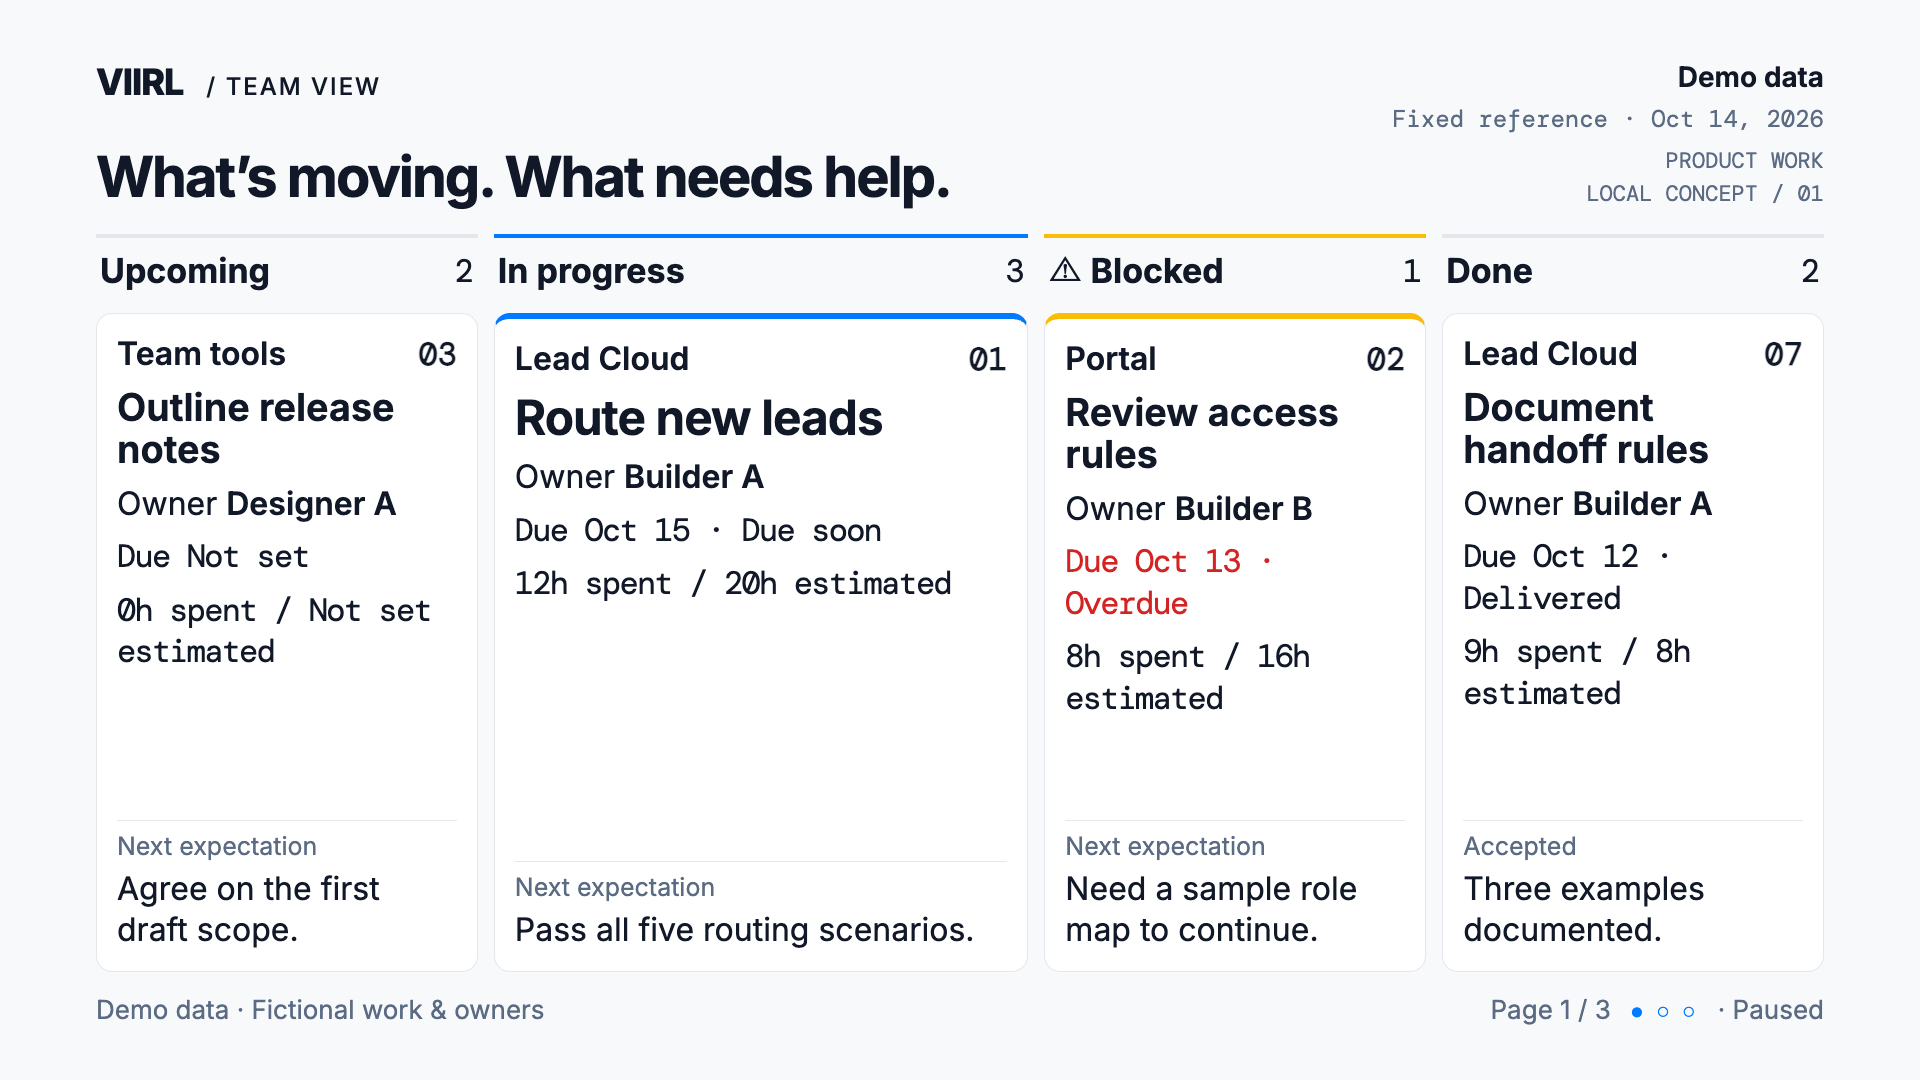
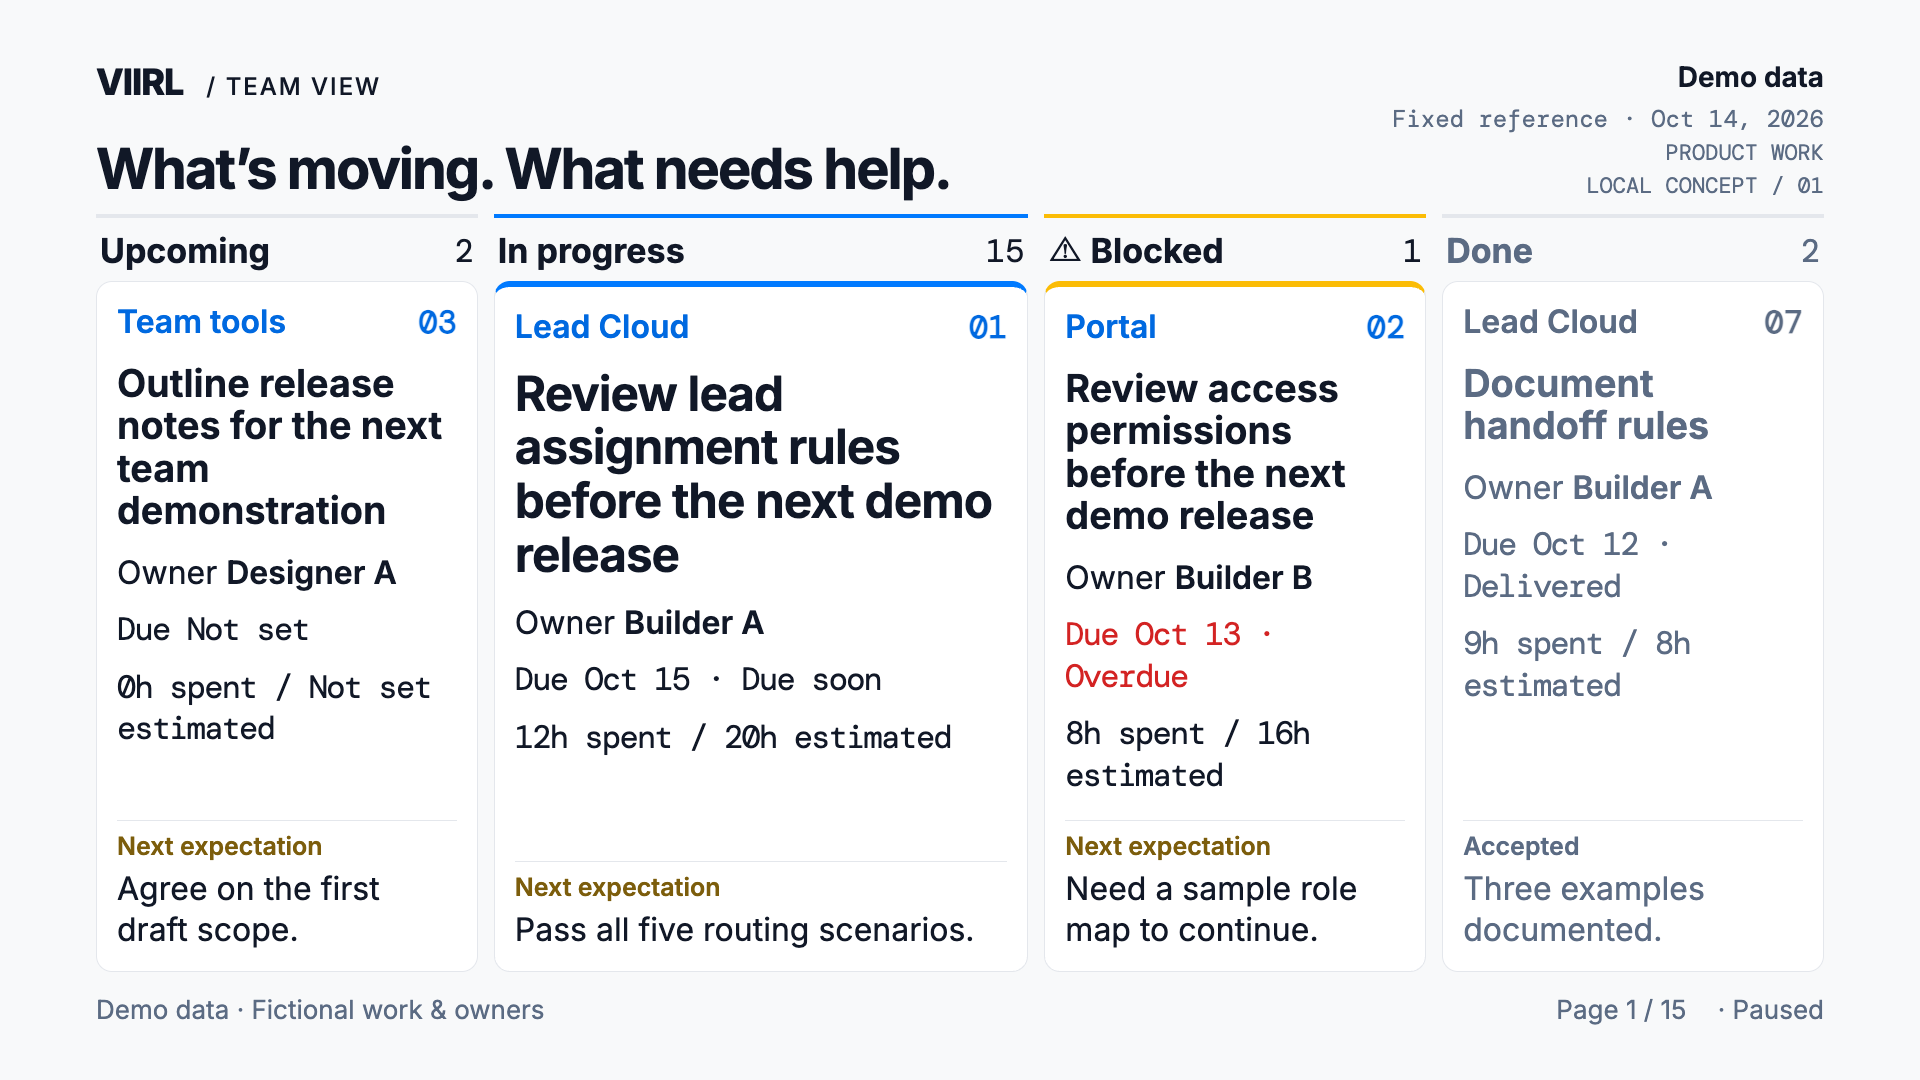
Improve Team View hierarchy and card spacing

diff --git a/style.css b/style.css
@@ -10,9 +10,9 @@
 @media(prefers-reduced-motion:reduce){*{scroll-behavior:auto}}
 
 /* TV composition: reserve the footer and keep every work field readable. */
-.board header{height:64px}.board .heading{margin:20px 0 24px}.board .heading h1{font-size:56px}.board .lane-heading{padding:12px 4px 20px}.board .work-card{gap:14px}.board .work-card .eyebrow{font-size:32px;letter-spacing:0}.board .status{font-size:32px}.board .facts{gap:12px}.board .expectation{padding-top:14px}.board footer{flex-shrink:0;height:54px}.board .work-card{min-height:0}
+.board header{height:64px}.board .heading{margin:12px 0 12px}.board .heading h1{font-size:56px}.board .lane-heading{padding:12px 4px 8px}.board .work-card{gap:14px}.board .work-card .eyebrow{font-size:32px;letter-spacing:0}.board .status{font-size:32px}.board .facts{gap:16px}.board .expectation{padding-top:14px}.board footer{flex-shrink:0;height:54px}.board .work-card{min-height:0}
 
-.board .work-card{padding:20px;gap:12px}.board .expectation{padding-top:10px}.board .expectation>span{margin-bottom:6px}.board .lane.in-progress h3{font-size:48px}.board .work-card h3{line-height:1.12}
+.board .work-card{padding:20px;gap:20px}.board .expectation{padding-top:10px}.board .expectation>span{margin-bottom:6px}.board .lane.in-progress h3{font-size:48px}.board .work-card h3{line-height:1.12}
 .spotlight .heading{margin:16px 0 24px}.spotlight .heading h1{font-size:60px}.spotlight footer{height:54px;flex-shrink:0}.spotlight .support .work-card{padding:16px 20px;gap:8px;min-height:0}.spotlight .support .status{top:12px;right:20px;font-size:30px}.spotlight .support .facts{gap:6px}.spotlight .support .eyebrow{font-size:30px;letter-spacing:0}.spotlight .support .expectation p{line-height:1.2}.spotlight .hero .status{font-size:32px}.spotlight .hero .eyebrow{font-size:32px;letter-spacing:0}
 .timeline .work-card .eyebrow,.timeline .work-card .status{font-size:32px;letter-spacing:0}.week-head>span:not(:first-child){font-size:30px}
 
@@ -77,3 +77,10 @@
 [data-theme="dark"] .timeline .status.in-progress,[data-theme="dark"] .spotlight .support .status.in-progress{background:var(--color-blue);color:white;padding:6px 12px;border-radius:8px}
 [data-theme="dark"] .mini:not(.spotlight) div{background:var(--color-dark-panel)}
 [data-theme="dark"] .mini.timeline div{background:var(--color-blue)}
+
+/* Team view: separate workstream, task, facts, and the next action. */
+.board{--board-label:var(--color-blue-hover);--board-next:color-mix(in srgb,var(--color-warning) 48%,var(--color-dark));--board-done:var(--color-text-subtle)}
+[data-theme="dark"] .board{--board-label:color-mix(in srgb,var(--color-blue) 70%,white);--board-next:var(--color-warning);--board-done:color-mix(in srgb,var(--color-text-primary) 62%,var(--color-dark-panel))}
+.board .work-card .eyebrow{color:var(--board-label)}
+.board .expectation>span{color:var(--board-next);font-weight:600}
+.board .lane.done,.board .lane.done .eyebrow,.board .lane.done .expectation>span{color:var(--board-done)}
